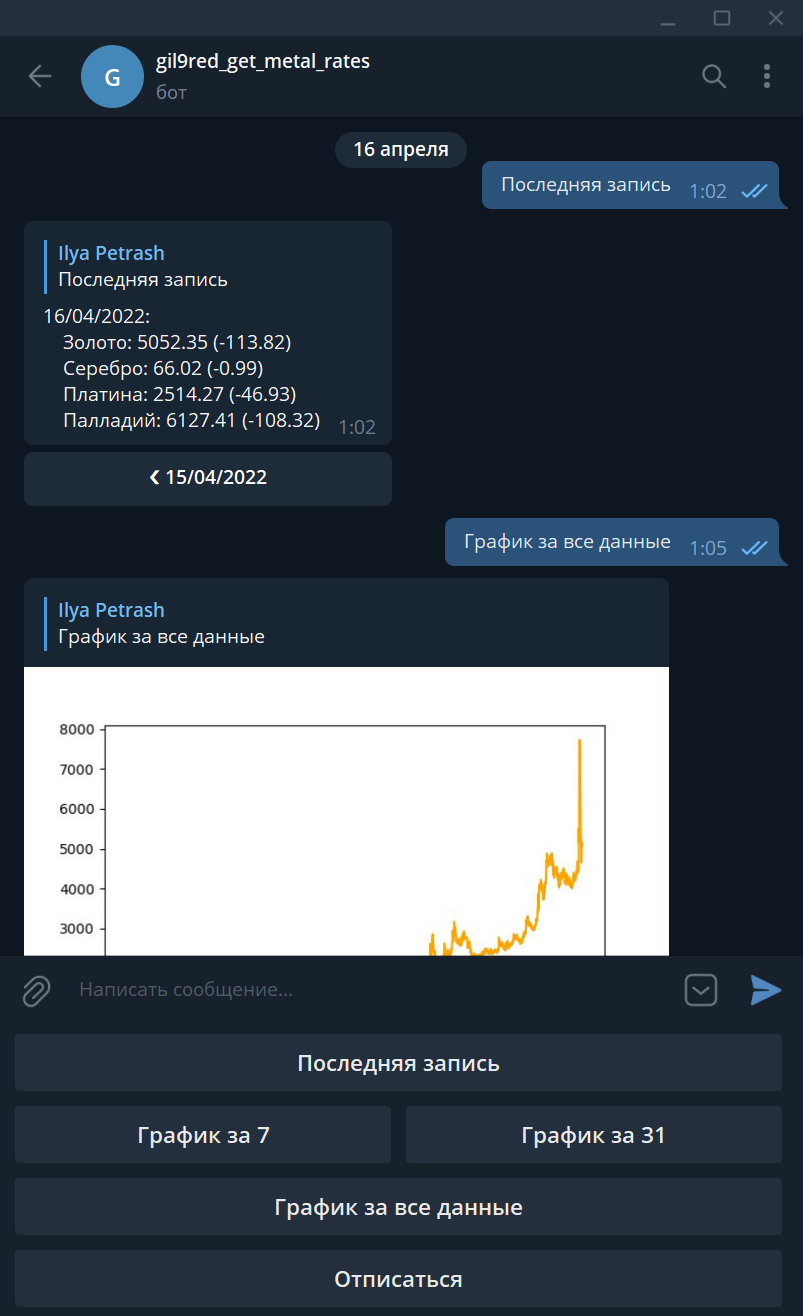
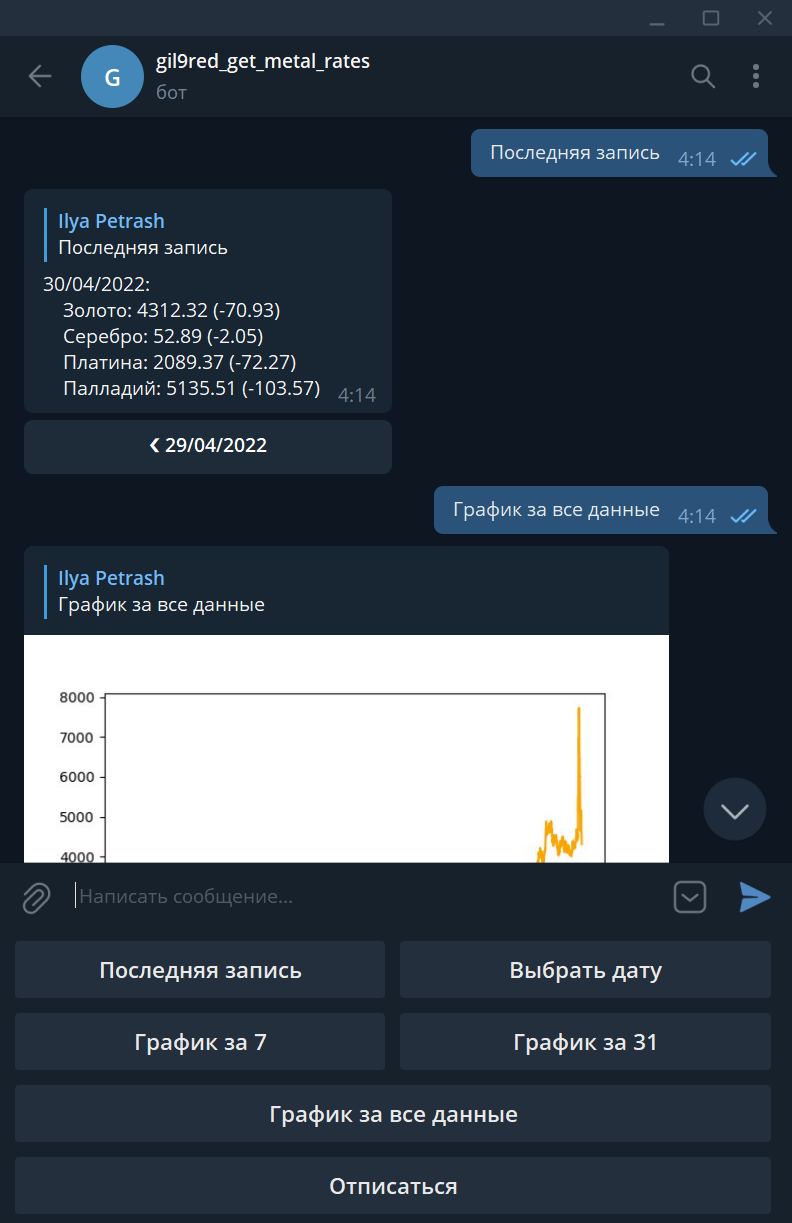
Обновлено. Добавлена команда "Выбрать дату"

diff --git a/app_tg_bot/bot/third_party/telegramcalendar.py b/app_tg_bot/bot/third_party/telegramcalendar.py
@@ -1,0 +1,101 @@
+#!/usr/bin/env python3
+#
+# A library that allows to create an inline calendar keyboard.
+# grcanosa https://github.com/grcanosa
+#
+"""
+Base methods for calendar keyboard creation and processing.
+"""
+
+
+from telegram import InlineKeyboardButton, InlineKeyboardMarkup,ReplyKeyboardRemove
+import datetime
+import calendar
+
+def create_callback_data(action,year,month,day):
+    """ Create the callback data associated to each button"""
+    return ";".join([action,str(year),str(month),str(day)])
+
+def separate_callback_data(data):
+    """ Separate the callback data"""
+    return data.split(";")
+
+
+def create_calendar(year=None,month=None):
+    """
+    Create an inline keyboard with the provided year and month
+    :param int year: Year to use in the calendar, if None the current year is used.
+    :param int month: Month to use in the calendar, if None the current month is used.
+    :return: Returns the InlineKeyboardMarkup object with the calendar.
+    """
+    now = datetime.datetime.now()
+    if year == None: year = now.year
+    if month == None: month = now.month
+    data_ignore = create_callback_data("IGNORE", year, month, 0)
+    keyboard = []
+    #First row - Month and Year
+    row=[]
+    row.append(InlineKeyboardButton(calendar.month_name[month]+" "+str(year),callback_data=data_ignore))
+    keyboard.append(row)
+    #Second row - Week Days
+    row=[]
+    for day in ["Mo","Tu","We","Th","Fr","Sa","Su"]:
+        row.append(InlineKeyboardButton(day,callback_data=data_ignore))
+    keyboard.append(row)
+
+    my_calendar = calendar.monthcalendar(year, month)
+    for week in my_calendar:
+        row=[]
+        for day in week:
+            if(day==0):
+                row.append(InlineKeyboardButton(" ",callback_data=data_ignore))
+            else:
+                row.append(InlineKeyboardButton(str(day),callback_data=create_callback_data("DAY",year,month,day)))
+        keyboard.append(row)
+    #Last row - Buttons
+    row=[]
+    row.append(InlineKeyboardButton("<",callback_data=create_callback_data("PREV-MONTH",year,month,day)))
+    row.append(InlineKeyboardButton(" ",callback_data=data_ignore))
+    row.append(InlineKeyboardButton(">",callback_data=create_callback_data("NEXT-MONTH",year,month,day)))
+    keyboard.append(row)
+
+    return InlineKeyboardMarkup(keyboard)
+
+
+def process_calendar_selection(bot,update):
+    """
+    Process the callback_query. This method generates a new calendar if forward or
+    backward is pressed. This method should be called inside a CallbackQueryHandler.
+    :param telegram.Bot bot: The bot, as provided by the CallbackQueryHandler
+    :param telegram.Update update: The update, as provided by the CallbackQueryHandler
+    :return: Returns a tuple (Boolean,datetime.datetime), indicating if a date is selected
+                and returning the date if so.
+    """
+    ret_data = (False,None)
+    query = update.callback_query
+    (action,year,month,day) = separate_callback_data(query.data)
+    curr = datetime.datetime(int(year), int(month), 1)
+    if action == "IGNORE":
+        bot.answer_callback_query(callback_query_id= query.id)
+    elif action == "DAY":
+        bot.edit_message_text(text=query.message.text,
+            chat_id=query.message.chat_id,
+            message_id=query.message.message_id
+            )
+        ret_data = True,datetime.datetime(int(year),int(month),int(day))
+    elif action == "PREV-MONTH":
+        pre = curr - datetime.timedelta(days=1)
+        bot.edit_message_text(text=query.message.text,
+            chat_id=query.message.chat_id,
+            message_id=query.message.message_id,
+            reply_markup=create_calendar(int(pre.year),int(pre.month)))
+    elif action == "NEXT-MONTH":
+        ne = curr + datetime.timedelta(days=31)
+        bot.edit_message_text(text=query.message.text,
+            chat_id=query.message.chat_id,
+            message_id=query.message.message_id,
+            reply_markup=create_calendar(int(ne.year),int(ne.month)))
+    else:
+        bot.answer_callback_query(callback_query_id= query.id,text="Something went wrong!")
+        # UNKNOWN
+    return ret_data

diff --git a/app_tg_bot/bot/commands.py b/app_tg_bot/bot/commands.py
@@ -18,9 +18,12 @@ from app_tg_bot.bot.common import (
 from app_tg_bot.bot.regexp_patterns import (
     PATTERN_REPLY_GET_AS_TEXT, PATTERN_INLINE_GET_BY_DATE, PATTERN_REPLY_GET_LAST_7_AS_CHART,
     PATTERN_REPLY_GET_LAST_31_AS_CHART, PATTERN_REPLY_GET_ALL_AS_CHART, PATTERN_REPLY_SUBSCRIBE,
-    PATTERN_REPLY_UNSUBSCRIBE, PATTERN_INLINE_GET_AS_CHART, fill_string_pattern
+    PATTERN_REPLY_UNSUBSCRIBE, PATTERN_INLINE_GET_AS_CHART,
+    PATTERN_REPLY_SELECT_DATE, PATTERN_INLINE_SELECT_DATE,
+    fill_string_pattern
 )
 from app_tg_bot.bot.third_party.auto_in_progress_message import show_temp_message_decorator, ProgressValue
+from app_tg_bot.bot.third_party import telegramcalendar
 
 from db import Subscription, MetalRate
 from root_common import get_date_str, MetalEnum, SubscriptionResultEnum, DEFAULT_METAL
@@ -34,7 +37,10 @@ def get_reply_keyboard(update: Update, context: CallbackContext) -> ReplyKeyboar
     is_active = Subscription.has_is_active(update.effective_user.id)
 
     commands = [
-        [fill_string_pattern(PATTERN_REPLY_GET_AS_TEXT)],
+        [
+            fill_string_pattern(PATTERN_REPLY_GET_AS_TEXT),
+            fill_string_pattern(PATTERN_REPLY_SELECT_DATE),
+        ],
         [
             fill_string_pattern(PATTERN_REPLY_GET_LAST_7_AS_CHART),
             fill_string_pattern(PATTERN_REPLY_GET_LAST_31_AS_CHART)
@@ -93,6 +99,50 @@ def on_get_as_text(update: Update, context: CallbackContext):
         text=text,
         reply_markup=get_inline_keyboard_for_date_pagination(for_date),
     )
+
+
+@log_func(log)
+def on_select_date(update: Update, context: CallbackContext):
+    query = update.callback_query
+    if not query:
+        date = MetalRate.get_last_date()
+        reply_message(
+            "Пожалуйста, выберите дату:",
+            update=update, context=context,
+            reply_markup=telegramcalendar.create_calendar(
+                year=date.year,
+                month=date.month
+            )
+        )
+        return
+
+    query.answer()
+
+    bot = context.bot
+
+    selected, for_date = telegramcalendar.process_calendar_selection(bot, update)
+    if selected:
+        msg_not_found_for_date = ''
+
+        metal_rate: MetalRate = MetalRate.get_by(for_date)
+        if not metal_rate:
+            msg_not_found_for_date = SeverityEnum.INFO.get_text(
+                f'За {get_date_str(for_date)} нет данных, будет выбрана ближайшая дата'
+            )
+            prev_date, next_date = MetalRate.get_prev_next_dates(for_date)
+            for_date = next_date if next_date else prev_date
+            metal_rate: MetalRate = MetalRate.get_by(for_date)
+
+        text = metal_rate.get_description(show_diff=True)
+        if msg_not_found_for_date:
+            text = msg_not_found_for_date + '\n\n' + text
+
+        reply_text_or_edit_with_keyboard(
+            message=update.effective_message,
+            query=query,
+            text=text,
+            reply_markup=get_inline_keyboard_for_date_pagination(for_date),
+        )
 
 
 @log_func(log)
@@ -222,6 +272,9 @@ def setup(dp: Dispatcher):
 
     dp.add_handler(MessageHandler(Filters.regex(PATTERN_REPLY_GET_AS_TEXT), on_get_as_text))
     dp.add_handler(CallbackQueryHandler(on_get_as_text, pattern=PATTERN_INLINE_GET_BY_DATE))
+
+    dp.add_handler(MessageHandler(Filters.regex(PATTERN_REPLY_SELECT_DATE), on_select_date))
+    dp.add_handler(CallbackQueryHandler(on_select_date, pattern=PATTERN_INLINE_SELECT_DATE))
 
     dp.add_handler(MessageHandler(Filters.regex(PATTERN_REPLY_GET_LAST_7_AS_CHART), on_get_last_7_as_chart))
     dp.add_handler(MessageHandler(Filters.regex(PATTERN_REPLY_GET_LAST_31_AS_CHART), on_get_last_31_as_chart))

diff --git a/app_tg_bot/bot/regexp_patterns.py b/app_tg_bot/bot/regexp_patterns.py
@@ -5,12 +5,14 @@ __author__ = 'ipetrash'
 
 
 import re
-
 from app_tg_bot.bot.third_party.regexp import fill_string_pattern
 
 
 PATTERN_REPLY_GET_AS_TEXT = re.compile(r'^Последняя запись$', flags=re.IGNORECASE)
 PATTERN_INLINE_GET_BY_DATE = re.compile(r'^get_by_date=(.+)$')
+
+PATTERN_REPLY_SELECT_DATE = re.compile(r'^Выбрать дату', flags=re.IGNORECASE)
+PATTERN_INLINE_SELECT_DATE = re.compile(r'.+;\d+;\d+;\d+')  # NOTE: Формат telegramcalendar.py
 
 PATTERN_REPLY_GET_LAST_7_AS_CHART = re.compile(r'^График за 7$', flags=re.IGNORECASE)
 PATTERN_REPLY_GET_LAST_31_AS_CHART = re.compile(r'^График за 31$', flags=re.IGNORECASE)

diff --git a/README.md b/README.md
@@ -7,8 +7,9 @@
 ## [Бот](app_tg_bot)
 
 | ![etc/screenshots/tg_bot_1.png](etc/screenshots/tg_bot_1.png) | ![etc/screenshots/tg_bot_2.png](etc/screenshots/tg_bot_2.png) |
-| --- | ---  |
- 
+|---------------------------------------------------------------|---------------------------------------------------------------|
+| ![etc/screenshots/tg_bot_3.png](etc/screenshots/tg_bot_3.png) | ![etc/screenshots/tg_bot_4.png](etc/screenshots/tg_bot_4.png) | 
+
 ## [Веб-сервер](app_web_server)
 
 ![etc/screenshots/tweb_server.png](etc/screenshots/web_server.png)

diff --git a/app_tg_bot/bot/third_party/README.md b/app_tg_bot/bot/third_party/README.md
@@ -1,3 +1,4 @@
 ### SOURCE:
  * [auto_in_progress_message.py](https://github.com/gil9red/SimplePyScripts/blob/0c3c7da43d72112a9b9f826bd225ef3752c5c4a5/telegram_bot_examples/auto_in_progress_message.py) (PARTIAL)
  * [regexp.py](https://github.com/gil9red/telegram_bot__gamebook/blob/7b7399c83ae6249da9dc92ea5dc475cc0565edc0/bot/regexp.py#L22)
+ * [telegramcalendar.py](https://github.com/unmonoqueteclea/calendar-telegram)
